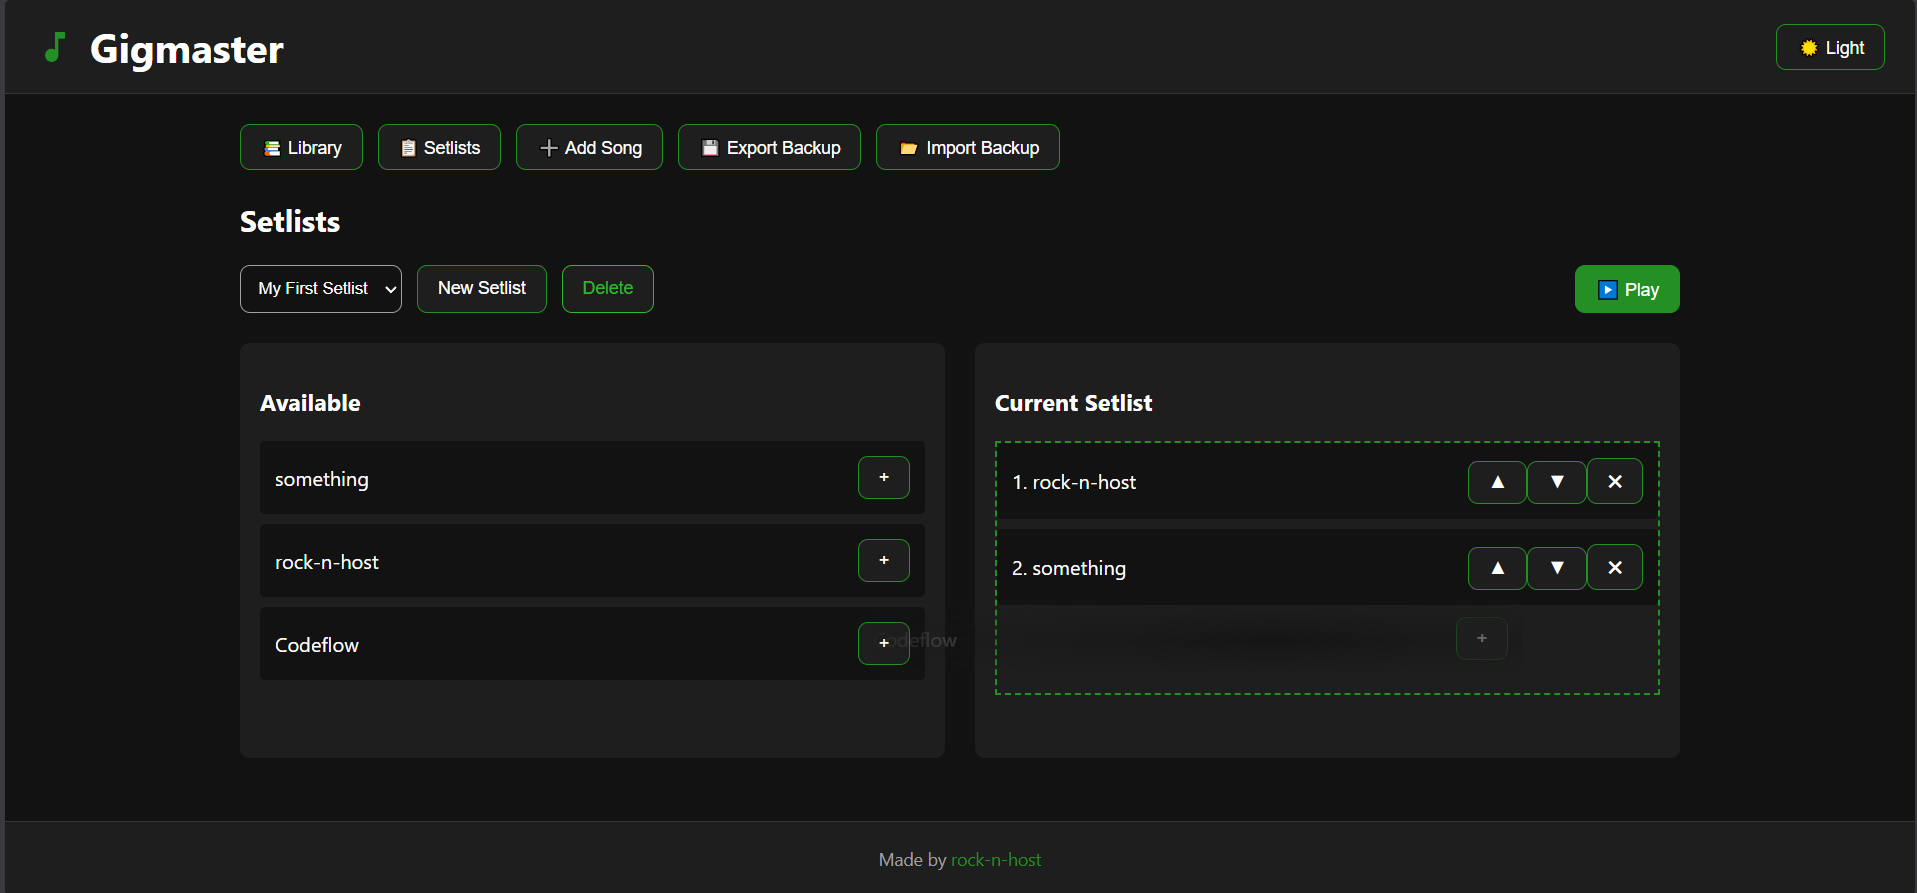
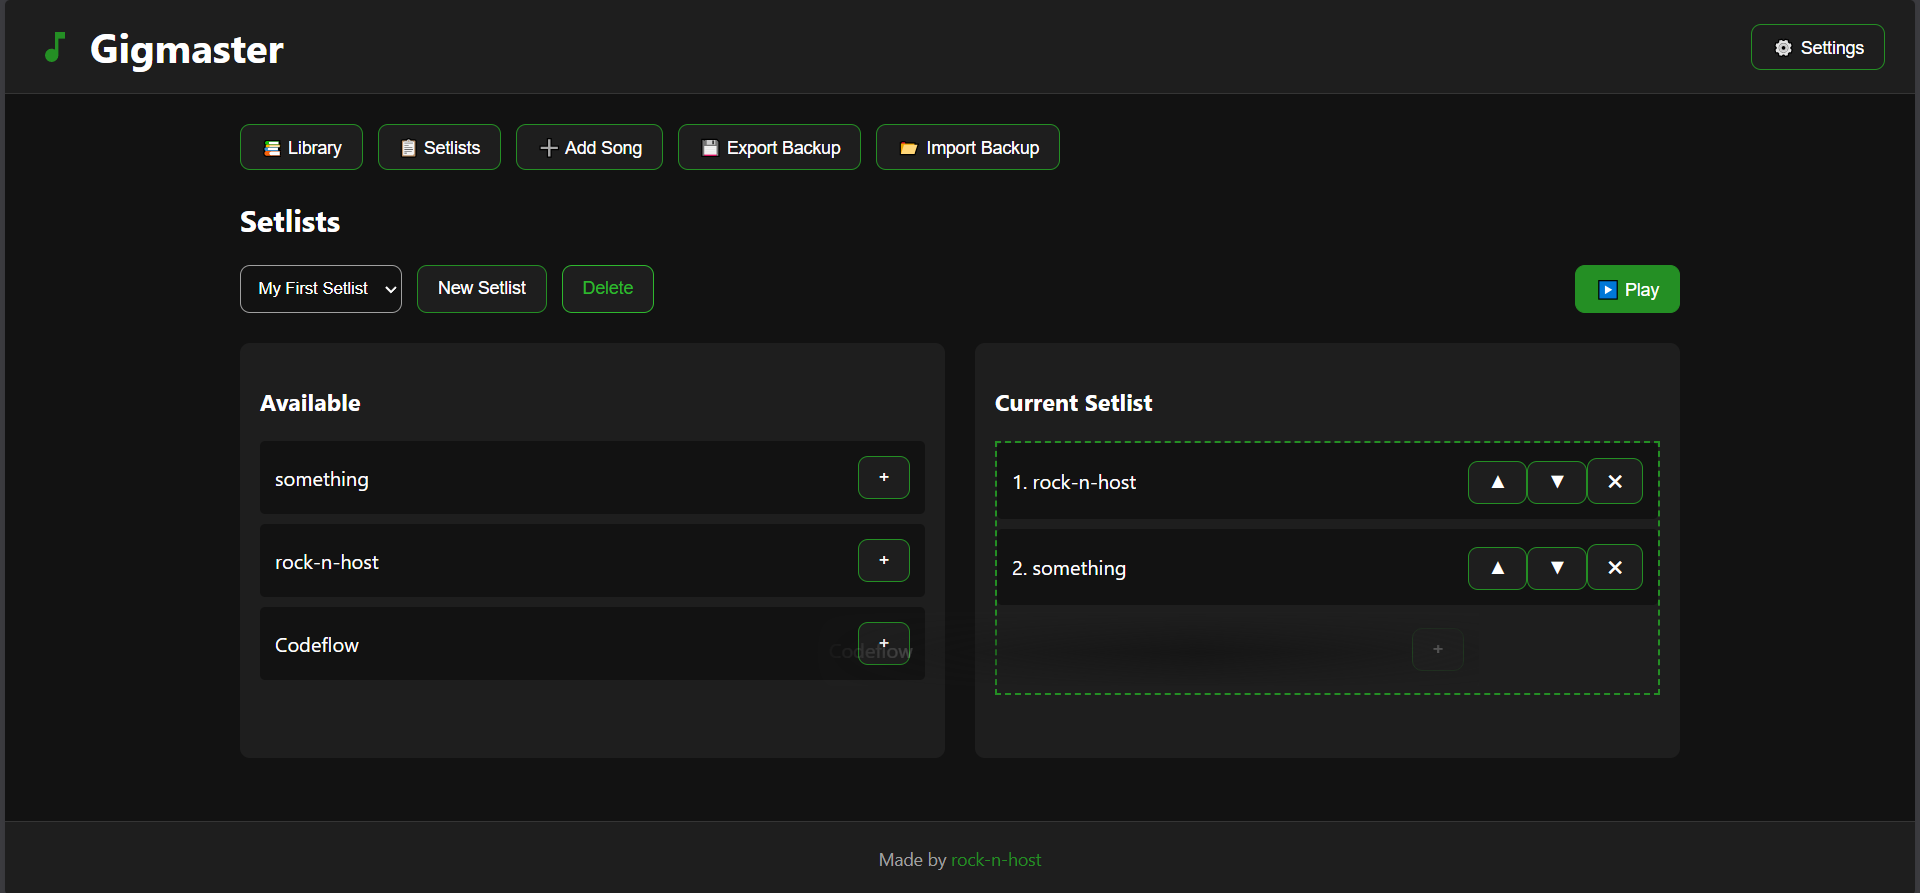
add settings
* add some settings

* update screenshots

* update readme

* update

---------

diff --git a/index.html b/index.html
@@ -257,7 +257,8 @@
             }
         </style>
     </head>
-    <body data-theme="dark">
+
+    <body>
         <header>
             <div style="display: flex; align-items: center; gap: 12px">
                 <svg
@@ -273,7 +274,7 @@
                 </svg>
                 <h1 style="margin: 0">Gigmaster</h1>
             </div>
-            <button id="theme-toggle" onclick="toggleTheme()">☀ Light</button>
+            <button onclick="openSettings()">⚙ Settings</button>
         </header>
 
         <main>
@@ -510,6 +511,66 @@
             </div>
         </div>
 
+        <!-- SETTINGS MODAL -->
+        <div id="settings-modal" class="modal hidden">
+            <div class="modal-content">
+                <h2>App Settings</h2>
+
+                <label>Theme</label>
+                <select id="setting-theme">
+                    <option value="system">Follow System</option>
+                    <option value="dark">Dark Mode</option>
+                    <option value="light">Light Mode</option>
+                </select>
+
+                <label>Auto-Scroll Speed (1 = Slowest, 100 = Fastest)</label>
+                <div style="display: flex; align-items: center; gap: 12px">
+                    <input
+                        type="range"
+                        id="setting-scroll-speed"
+                        min="1"
+                        max="100"
+                        step="1"
+                        style="margin-bottom: 0"
+                    />
+                    <span id="scroll-speed-value" style="width: 40px">50</span>
+                </div>
+                <p class="card-meta">Milliseconds between pixel steps.</p>
+
+                <div style="margin: 20px 0">
+                    <label
+                        style="
+                            display: flex;
+                            align-items: center;
+                            gap: 10px;
+                            cursor: pointer;
+                        "
+                    >
+                        <input
+                            type="checkbox"
+                            id="setting-metronome-click"
+                            style="width: auto; margin-bottom: 0"
+                        />
+                        Enable Audio Click/Flash
+                    </label>
+                </div>
+
+                <div
+                    style="
+                        display: flex;
+                        justify-content: flex-end;
+                        gap: 12px;
+                        margin-top: 24px;
+                    "
+                >
+                    <button onclick="closeSettings()">Cancel</button>
+                    <button onclick="saveSettings()" class="primary-btn">
+                        Save Settings
+                    </button>
+                </div>
+            </div>
+        </div>
+
         <script>
             // State and Logic remain the same as previous functional version
             let state = {
@@ -518,7 +579,11 @@
                     { id: "default", name: "My First Setlist", songIds: [] },
                 ],
                 activeSetlistId: "default",
-                theme: "dark",
+                settings: {
+                    theme: "system",
+                    scrollSpeed: 30,
+                    metronomeEnabled: true,
+                },
             };
             let currentSongId = null,
                 autoScrollInterval = null,
@@ -585,8 +650,15 @@
                     });
 
                     if (savedState) {
-                        // Load from IndexedDB
                         state = savedState;
+                        // Safety check for new settings object
+                        if (!state.settings) {
+                            state.settings = {
+                                theme: "system",
+                                scrollSpeed: 30,
+                                metronomeEnabled: true,
+                            };
+                        }
                     } else {
                         // MIGRATION: If DB is empty, check old localStorage
                         const oldLocal = localStorage.getItem("GigmasterState");
@@ -598,6 +670,7 @@
                             await saveData(); // Save it into IndexedDB immediately
                         }
                     }
+                    applyTheme(state.settings.theme);
 
                     // Safety check for setlists
                     if (!state.setlists || state.setlists.length === 0) {
@@ -651,10 +724,25 @@
             }
 
             function applyTheme(theme) {
-                document.body.setAttribute("data-theme", theme);
-                document.getElementById("theme-toggle").textContent =
-                    theme === "dark" ? "☀ Light" : "🌙 Dark";
+                let effectiveTheme = theme;
+                if (theme === "system") {
+                    effectiveTheme = window.matchMedia(
+                        "(prefers-color-scheme: dark)",
+                    ).matches
+                        ? "dark"
+                        : "light";
+                }
+                document.body.setAttribute("data-theme", effectiveTheme);
             }
+
+            // Watch for System Theme changes while the app is open
+            window
+                .matchMedia("(prefers-color-scheme: dark)")
+                .addEventListener("change", () => {
+                    if (state.settings.theme === "system") {
+                        applyTheme("system");
+                    }
+                });
 
             function renderLibrary() {
                 const grid = document.getElementById("song-grid");
@@ -861,9 +949,11 @@
                     b.textContent = "Auto-Scroll";
                 } else {
                     b.textContent = "Stop Scroll";
+                    // Invert the speed: Speed 100 = 10ms delay. Speed 1 = 1000ms delay.
+                    const delayMs = 1000 / state.settings.scrollSpeed;
                     autoScrollInterval = setInterval(
                         () => window.scrollBy(0, 1),
-                        30,
+                        delayMs,
                     );
                 }
             }
@@ -999,23 +1089,29 @@
                 if (audioCtx.state === "suspended") audioCtx.resume();
             }
             function playClick() {
-                const osc = audioCtx.createOscillator();
-                const g = audioCtx.createGain();
-                osc.connect(g);
-                g.connect(audioCtx.destination);
-                osc.frequency.value = 800;
-                g.gain.setValueAtTime(1, audioCtx.currentTime);
-                g.gain.exponentialRampToValueAtTime(
-                    0.001,
-                    audioCtx.currentTime + 0.1,
-                );
-                osc.start();
-                osc.stop(audioCtx.currentTime + 0.1);
+                // Only play audio if enabled in settings
+                if (state.settings.metronomeEnabled) {
+                    const osc = audioCtx.createOscillator();
+                    const g = audioCtx.createGain();
+                    osc.connect(g);
+                    g.connect(audioCtx.destination);
+                    osc.frequency.value = 800;
+                    g.gain.setValueAtTime(1, audioCtx.currentTime);
+                    g.gain.exponentialRampToValueAtTime(
+                        0.001,
+                        audioCtx.currentTime + 0.1,
+                    );
+                    osc.start();
+                    osc.stop(audioCtx.currentTime + 0.1);
+                }
+
+                // Always keep the visual flash for cues
                 const b = document.getElementById("metronome-btn");
                 b.classList.remove("flash-beat");
                 void b.offsetWidth;
                 b.classList.add("flash-beat");
             }
+
             function toggleMetronome() {
                 if (isMetronomePlaying) stopMetronome();
                 else {
@@ -1060,6 +1156,53 @@
                     alert("Imported!");
                 };
                 r.readAsText(f);
+            }
+
+            // --- SETTINGS FUNCTIONS ---
+            function openSettings() {
+                document
+                    .getElementById("settings-modal")
+                    .classList.remove("hidden");
+                document.getElementById("setting-theme").value =
+                    state.settings.theme;
+                document.getElementById("setting-scroll-speed").value =
+                    state.settings.scrollSpeed;
+                document.getElementById("setting-metronome-click").checked =
+                    state.settings.metronomeEnabled;
+
+                // Update the speed label display
+                document.getElementById("scroll-speed-value").textContent =
+                    state.settings.scrollSpeed;
+            }
+
+            // Sync range slider text
+            document
+                .getElementById("setting-scroll-speed")
+                ?.addEventListener("input", (e) => {
+                    document.getElementById("scroll-speed-value").textContent =
+                        e.target.value;
+                });
+
+            function closeSettings() {
+                document
+                    .getElementById("settings-modal")
+                    .classList.add("hidden");
+            }
+
+            async function saveSettings() {
+                state.settings = {
+                    theme: document.getElementById("setting-theme").value,
+                    scrollSpeed: parseInt(
+                        document.getElementById("setting-scroll-speed").value,
+                    ),
+                    metronomeEnabled: document.getElementById(
+                        "setting-metronome-click",
+                    ).checked,
+                };
+
+                applyTheme(state.settings.theme);
+                await saveData();
+                closeSettings();
             }
 
             loadData();

diff --git a/README.md b/README.md
@@ -16,9 +16,7 @@
 * **Light and Dark Mode UI:** Optimized for low-light environments as well as outdoor places with daylight.
 * **Card Grid Layout:** Easy touch navigation for song selection.
 * **Flat-File structure:** Lyrics are stored inside `indexedDB` in the Browser and can be imported / exported as JSON. The application itself is just one html file containing everything.
-
-<img src="screenshots/main-page-dark.PNG" alt="main-page-dark" width="600"/>
-<img src="screenshots/main-page-light.PNG" alt="main-page-light" width="600"/>
+* **Settings:** Simple settings window for the theme, audio click and scroll speed
 
 <img src="screenshots/main-page-dark.PNG" alt="main-page-dark" width="600"/>
 <img src="screenshots/main-page-light.PNG" alt="main-page-light" width="600"/>
@@ -60,12 +58,7 @@ Loading audio files as backing tracks is also supported. Audio files are stored 
 
 ## TODO
 
-- toggle audio click on/off, keep visual
-
-## Nice to have
-
-- default settings
-- save settings to json
+- centralized DB and json backups inside Docker Containers
 
 ---
 
